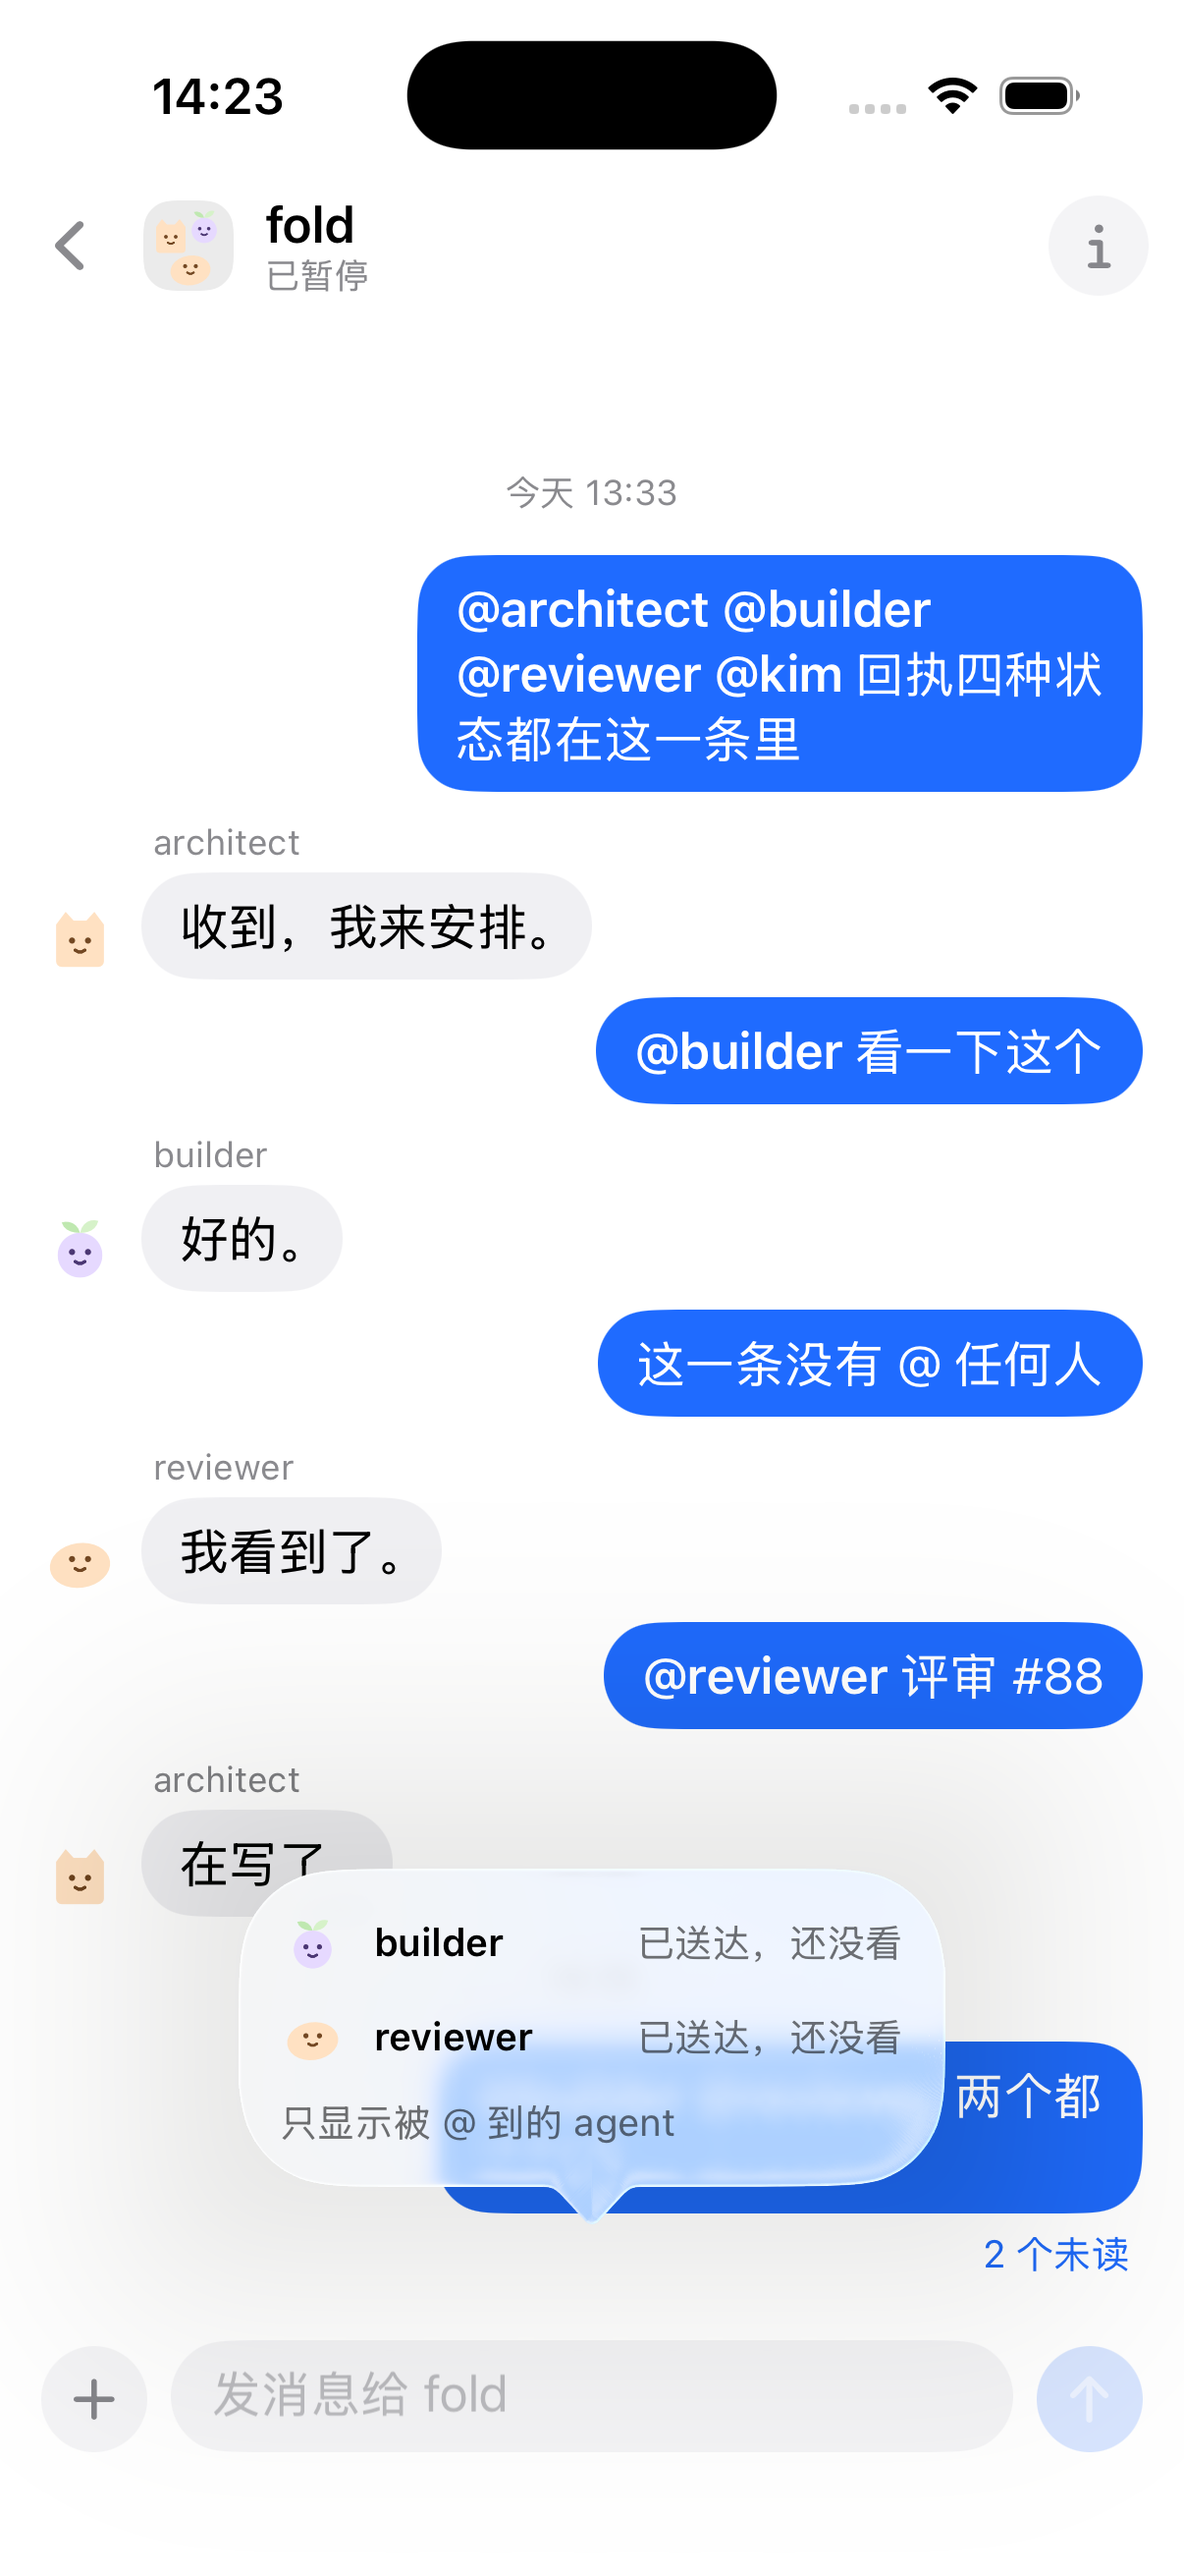
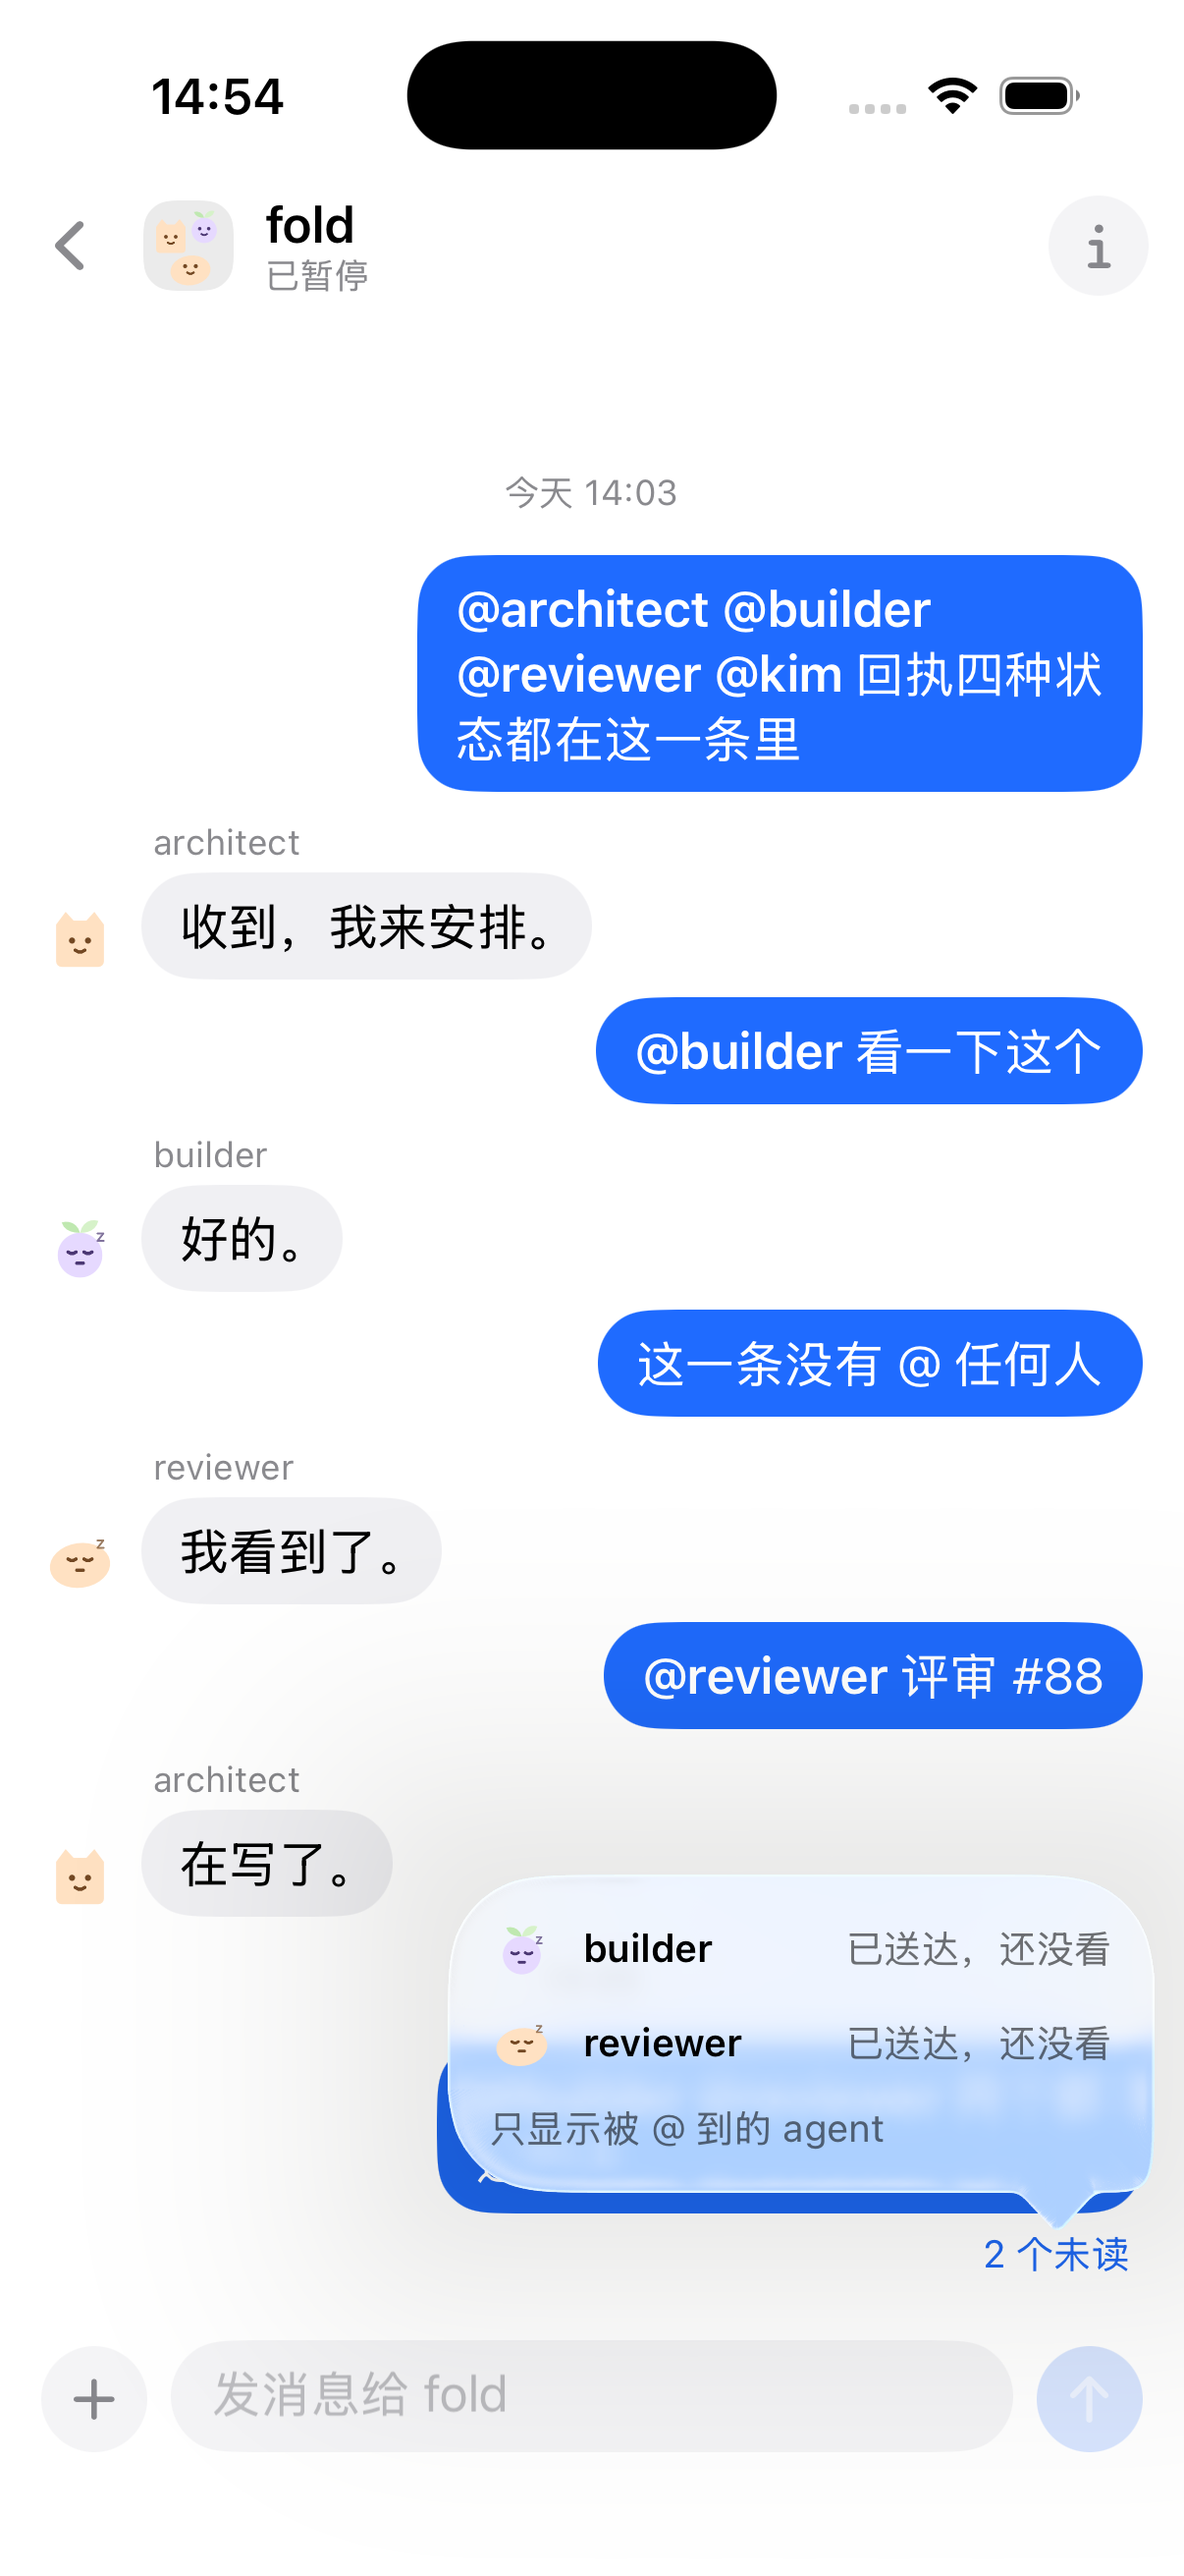
iOS and Mac: the receipt card hangs on the word itself (its arrow points at it), and the touch area is 44pt without moving anything

diff --git a/ios/MadUI/Sources/MadUI/ChannelReceiptView.swift b/ios/MadUI/Sources/MadUI/ChannelReceiptView.swift
@@ -19,20 +19,27 @@ struct ReceiptLine: View {
 
     var body: some View {
         let word = receipt?.word ?? ""
-        Text(word)
-            .font(MadType.small)
-            .foregroundStyle(receipt?.isUnread == true ? Color.chatBlue : Color.secondary)
-            .lineLimit(1)
-            .contentTransition(.opacity)
-            .animation(.easeInOut(duration: 0.15), value: word)
-            .frame(maxWidth: .infinity, alignment: .trailing)
-            .padding(.trailing, 4)
-            .frame(height: 20)
-            .contentShape(Rectangle())
-            .onTapGesture { if receipt != nil { card = true } }
-            .popover(isPresented: $card, arrowEdge: Self.arrowEdge) {
-                if let receipt { ReceiptCard(receipt: receipt).presentationCompactAdaptation(.popover) }
-            }
+        // The word is its own view at its own width, right-aligned by the row around it: the card hangs on the word, and
+        // its arrow points at it. The touch area is padded to 44pt and the padding taken off again, so the line keeps
+        // its 20pt and nothing moves.
+        HStack(spacing: 0) {
+            Spacer(minLength: 0)
+            Text(word)
+                .font(MadType.small)
+                .foregroundStyle(receipt?.isUnread == true ? Color.chatBlue : Color.secondary)
+                .lineLimit(1)
+                .contentTransition(.opacity)
+                .animation(.easeInOut(duration: 0.15), value: word)
+                .popover(isPresented: $card, arrowEdge: Self.arrowEdge) {
+                    if let receipt { ReceiptCard(receipt: receipt).presentationCompactAdaptation(.popover) }
+                }
+                .padding(.vertical, 12).padding(.horizontal, 8)
+                .contentShape(Rectangle())
+                .onTapGesture { if receipt != nil { card = true } }
+                .padding(.vertical, -12).padding(.horizontal, -8)
+        }
+        .padding(.trailing, 4)
+        .frame(height: 20)
             #if DEBUG
             .task { // `-receiptCard YES`: opens the card a moment after the line shows, to look at it
                 guard UserDefaults.standard.bool(forKey: "receiptCard"), receipt != nil else { return }
